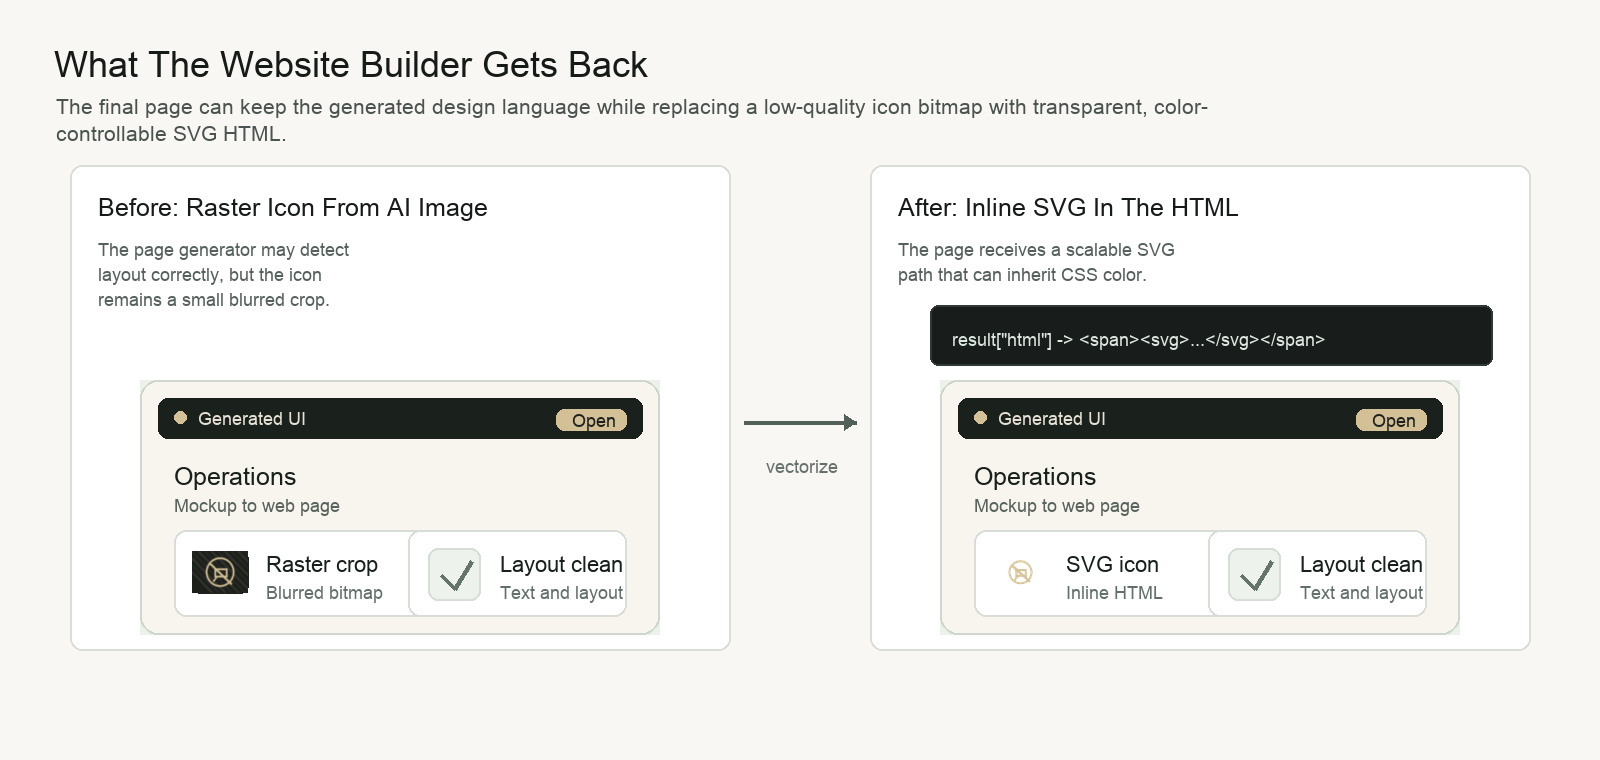
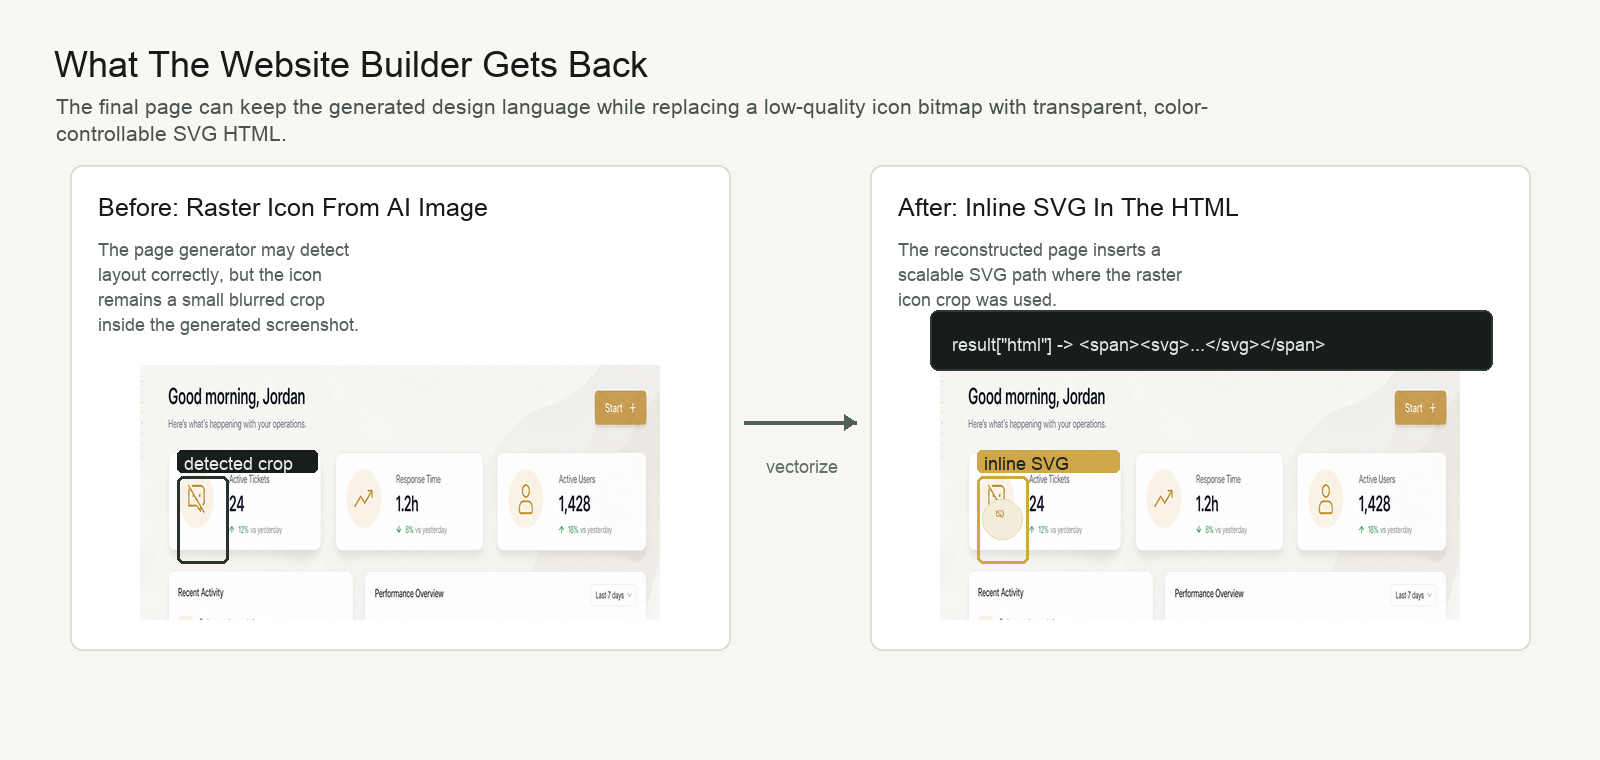
Use generated UI snapshot in workflow diagrams

diff --git a/scripts/generate_readme_diagrams.py b/scripts/generate_readme_diagrams.py
@@ -18,6 +18,11 @@ from auto_icon_vectorizer import vectorize_icon_crop
 EXAMPLES = ROOT / "examples"
 SIZE = 128
 SCALE = 4
+AI_UI_SNAPSHOT = EXAMPLES / "ai-generated-ui-snapshot.png"
+AI_UI_ICON_CROP = EXAMPLES / "ai-generated-ui-icon-crop.png"
+AI_UI_ICON_BOX = (185, 280, 330, 425)
+AI_UI_WIDE_VIEW_BOX = (80, 95, 1550, 520)
+AI_UI_CARD_VIEW_BOX = (130, 210, 630, 455)
 
 
 def main() -> None:
@@ -34,8 +39,11 @@ def main() -> None:
     trace = adapter._load_runtime()
     rendered_rgba = trace.render_svg_transparent(result["svg"], SIZE)
     write_transparent_background_diagram(rendered_rgba)
-    write_ai_website_workflow_diagram(crop, rendered_rgba, result)
-    write_ai_website_integration_diagram(crop, rendered_rgba)
+    ai_snapshot, ai_crop = load_ai_generated_ui_assets()
+    ai_result = vectorize_icon_crop(ai_crop)
+    ai_rendered_rgba = trace.render_svg_transparent(ai_result["svg"], SIZE)
+    write_ai_website_workflow_diagram(ai_snapshot, ai_crop, ai_rendered_rgba, ai_result)
+    write_ai_website_integration_diagram(ai_snapshot, ai_rendered_rgba)
     write_tracing_limitations_diagram(trace)
 
 
@@ -100,6 +108,17 @@ def make_colored_pin_crop() -> Image.Image:
     return image.resize((220, 160), Image.Resampling.LANCZOS)
 
 
+def load_ai_generated_ui_assets() -> tuple[Image.Image, Image.Image]:
+    if not AI_UI_SNAPSHOT.exists():
+        raise FileNotFoundError(
+            f"{AI_UI_SNAPSHOT} is required. It is a checked-in AI-generated UI snapshot used by the README diagrams."
+        )
+    snapshot = Image.open(AI_UI_SNAPSHOT).convert("RGB")
+    crop = snapshot.crop(AI_UI_ICON_BOX)
+    crop.save(AI_UI_ICON_CROP)
+    return snapshot, crop
+
+
 def write_pipeline_diagram(source: Image.Image, mask: Image.Image, rendered: Image.Image, result: dict) -> None:
     width, height = 1680, 760
     image = Image.new("RGB", (width, height), "#f7f8f6")
@@ -152,7 +171,7 @@ def write_pipeline_diagram(source: Image.Image, mask: Image.Image, rendered: Ima
     image.save(EXAMPLES / "pipeline-diagram.png")
 
 
-def write_ai_website_workflow_diagram(crop: Image.Image, icon: Image.Image, result: dict) -> None:
+def write_ai_website_workflow_diagram(snapshot: Image.Image, crop: Image.Image, icon: Image.Image, result: dict) -> None:
     width, height = 1720, 820
     image = Image.new("RGB", (width, height), "#f7f8f6")
     draw = ImageDraw.Draw(image)
@@ -179,12 +198,12 @@ def write_ai_website_workflow_diagram(crop: Image.Image, icon: Image.Image, resu
         x = x_positions[index]
         draw_card(draw, (x, 170, x + 360, 700), title, body, fonts)
         if kind == "mockup":
-            panel = draw_website_mockup((286, 320), crop, icon=None, final=False)
-            image.paste(panel, (x + 37, 330))
+            panel = ai_generated_ui_panel(snapshot, (286, 190), final_icon=None, view_box=AI_UI_CARD_VIEW_BOX)
+            image.paste(panel, (x + 37, 335))
         elif kind == "crop":
-            draw.rounded_rectangle((x + 82, 332, x + 278, 528), radius=10, fill="#121511", outline="#cbd1cb", width=2)
-            image.paste(crop.resize((184, 134), Image.Resampling.LANCZOS), (x + 88, 363))
-            draw.text((x + 92, 560), "detected-card-icon.png", fill="#3d4642", font=fonts["small"])
+            draw.rounded_rectangle((x + 82, 324, x + 278, 520), radius=10, fill="#ffffff", outline="#cbd1cb", width=2)
+            image.paste(crop.resize((184, 184), Image.Resampling.LANCZOS), (x + 88, 330))
+            draw.text((x + 86, 555), "crop from generated UI", fill="#3d4642", font=fonts["small"])
         elif kind == "vector":
             draw.rounded_rectangle((x + 82, 322, x + 278, 518), radius=10, fill="#ffffff", outline="#cbd1cb", width=2)
             checker = checkerboard((184, 184))
@@ -201,8 +220,8 @@ def write_ai_website_workflow_diagram(crop: Image.Image, icon: Image.Image, resu
                 fonts["mono"],
             )
         else:
-            panel = draw_website_mockup((286, 320), crop, icon=icon, final=True)
-            image.paste(panel, (x + 37, 330))
+            panel = ai_generated_ui_panel(snapshot, (286, 190), final_icon=icon, view_box=AI_UI_CARD_VIEW_BOX)
+            image.paste(panel, (x + 37, 335))
         if index < len(cards) - 1:
             draw_arrow(draw, (x + 374, 430), (x + 402, 430))
 
@@ -215,7 +234,7 @@ def write_ai_website_workflow_diagram(crop: Image.Image, icon: Image.Image, resu
     image.save(EXAMPLES / "ai-website-icon-workflow.png")
 
 
-def write_ai_website_integration_diagram(crop: Image.Image, icon: Image.Image) -> None:
+def write_ai_website_integration_diagram(snapshot: Image.Image, icon: Image.Image) -> None:
     width, height = 1600, 760
     image = Image.new("RGB", (width, height), "#f8f7f3")
     draw = ImageDraw.Draw(image)
@@ -231,20 +250,20 @@ def write_ai_website_integration_diagram(crop: Image.Image, icon: Image.Image) -
         27,
     )
 
-    draw_card(draw, (70, 165, 730, 650), "Before: Raster Icon From AI Image", "The page generator may detect layout correctly, but the icon remains a small blurred crop.", fonts)
-    before = draw_website_mockup((520, 255), crop, icon=None, final=False)
-    image.paste(before, (140, 380))
+    draw_card(draw, (70, 165, 730, 650), "Before: Raster Icon From AI Image", "The page generator may detect layout correctly, but the icon remains a small blurred crop inside the generated screenshot.", fonts)
+    before = ai_generated_ui_panel(snapshot, (520, 255), final_icon=None, view_box=AI_UI_WIDE_VIEW_BOX)
+    image.paste(before, (140, 365))
 
-    draw_card(draw, (870, 165, 1530, 650), "After: Inline SVG In The HTML", "The page receives a scalable SVG path that can inherit CSS color.", fonts)
-    after = draw_website_mockup((520, 255), crop, icon=icon, final=True)
-    image.paste(after, (940, 380))
+    draw_card(draw, (870, 165, 1530, 650), "After: Inline SVG In The HTML", "The reconstructed page inserts a scalable SVG path where the raster icon crop was used.", fonts)
+    after = ai_generated_ui_panel(snapshot, (520, 255), final_icon=icon, view_box=AI_UI_WIDE_VIEW_BOX)
+    image.paste(after, (940, 365))
 
     draw_arrow(draw, (744, 422), (856, 422))
     draw.text((766, 456), "vectorize", fill="#66706c", font=fonts["small"])
 
     draw_code_box(
         draw,
-        (930, 305, 1492, 365),
+        (930, 310, 1492, 370),
         [
             'result["html"] -> <span><svg>...</svg></span>',
         ],
@@ -314,6 +333,70 @@ def write_tracing_limitations_diagram(trace) -> None:
         24,
     )
     image.save(EXAMPLES / "tracing-alone-failure-modes.png")
+
+
+def ai_generated_ui_panel(
+    snapshot: Image.Image,
+    size: tuple[int, int],
+    *,
+    final_icon: Image.Image | None,
+    view_box: tuple[int, int, int, int],
+) -> Image.Image:
+    source = snapshot.crop(view_box).convert("RGB")
+    panel = source.resize(size, Image.Resampling.LANCZOS).convert("RGBA")
+    draw = ImageDraw.Draw(panel)
+    mapped = map_box(AI_UI_ICON_BOX, view_box, size)
+    if final_icon is None:
+        draw.rounded_rectangle(mapped, radius=6, outline=(41, 49, 44, 220), width=3)
+        label_w = min(140, size[0] - mapped[0] - 8)
+        label_box = (mapped[0], max(4, mapped[1] - 26), mapped[0] + label_w, max(28, mapped[1] - 4))
+        draw.rounded_rectangle(label_box, radius=5, fill=(24, 30, 27, 215))
+        draw.text((label_box[0] + 7, label_box[1] + 3), "detected crop", fill=(235, 238, 232, 255), font=load_fonts()["small"])
+    else:
+        clear_icon_region(panel, mapped)
+        paste_vector_icon(panel, final_icon, mapped)
+        draw.rounded_rectangle(mapped, radius=6, outline=(207, 166, 72, 235), width=3)
+        label_w = min(142, size[0] - mapped[0] - 8)
+        label_box = (mapped[0], max(4, mapped[1] - 26), mapped[0] + label_w, max(28, mapped[1] - 4))
+        draw.rounded_rectangle(label_box, radius=5, fill=(207, 166, 72, 230))
+        draw.text((label_box[0] + 7, label_box[1] + 3), "inline SVG", fill=(31, 33, 28, 255), font=load_fonts()["small"])
+    return panel.convert("RGB")
+
+
+def map_box(box: tuple[int, int, int, int], view_box: tuple[int, int, int, int], size: tuple[int, int]) -> tuple[int, int, int, int]:
+    x0, y0, x1, y1 = box
+    vx0, vy0, vx1, vy1 = view_box
+    sx = size[0] / max(1, vx1 - vx0)
+    sy = size[1] / max(1, vy1 - vy0)
+    return (
+        round((x0 - vx0) * sx),
+        round((y0 - vy0) * sy),
+        round((x1 - vx0) * sx),
+        round((y1 - vy0) * sy),
+    )
+
+
+def clear_icon_region(panel: Image.Image, box: tuple[int, int, int, int]) -> None:
+    draw = ImageDraw.Draw(panel)
+    x0, y0, x1, y1 = box
+    cx = (x0 + x1) // 2
+    cy = (y0 + y1) // 2
+    radius = max(18, min(x1 - x0, y1 - y0) // 2 - 5)
+    draw.ellipse(
+        (cx - radius, cy - radius, cx + radius, cy + radius),
+        fill=(245, 237, 220, 255),
+        outline=(231, 217, 188, 255),
+        width=1,
+    )
+
+
+def paste_vector_icon(panel: Image.Image, icon: Image.Image, box: tuple[int, int, int, int]) -> None:
+    x0, y0, x1, y1 = box
+    side = max(18, min(x1 - x0, y1 - y0) - 28)
+    placed = icon.resize((side, side), Image.Resampling.LANCZOS)
+    px = (x0 + x1 - side) // 2
+    py = (y0 + y1 - side) // 2
+    panel.alpha_composite(placed, (px, py))
 
 
 def trace_blurry_crop_auto(trace, crop: Image.Image) -> Image.Image:
@@ -464,51 +547,6 @@ def write_transparent_background_diagram(icon: Image.Image) -> None:
         font=fonts["small"],
     )
     image.save(EXAMPLES / "transparent-backgrounds.png")
-
-
-def draw_website_mockup(size: tuple[int, int], crop: Image.Image, icon: Image.Image | None, final: bool) -> Image.Image:
-    width, height = size
-    image = Image.new("RGB", size, "#ecf1eb")
-    draw = ImageDraw.Draw(image)
-    fonts = load_fonts()
-    compact = width < 380
-    draw.rounded_rectangle((0, 0, width - 1, height - 1), radius=18, fill="#f7f5ee", outline="#cfd6ce", width=2)
-    nav_h = 42 if compact else 40
-    draw.rounded_rectangle((18, 18, width - 18, 18 + nav_h), radius=10, fill="#1a211c")
-    draw.ellipse((34, 31, 46, 43), fill="#d3c096")
-    draw.text((58, 28), "Generated UI", fill="#e7e2d5", font=fonts["small"])
-    draw.rounded_rectangle((width - 104, 29, width - 34, 50), radius=8, fill="#d3c096")
-    draw.text((width - 88, 30), "Open", fill="#1b211d", font=fonts["small"])
-
-    draw.text((34, 82), "Operations", fill="#18201b", font=fonts["heading"])
-    draw.text((34, 115), "Mockup to web page", fill="#58635d", font=fonts["small"])
-    card_y = 150
-    card_specs = [(34, width - 68, "SVG icon" if final else "Raster crop")]
-    if not compact:
-        card_specs.append((width // 2 + 8, width // 2 - 42, "Layout clean"))
-
-    for index, (x, card_w, label) in enumerate(card_specs):
-        card_h = 84 if compact else 86
-        draw.rounded_rectangle((x, card_y, x + card_w, card_y + card_h), radius=12, fill="#ffffff", outline="#d8ddd7", width=2)
-        if index == 0:
-            if icon is None:
-                icon_crop = crop.resize((56, 42), Image.Resampling.LANCZOS).filter(ImageFilter.GaussianBlur(0.6))
-                draw.rounded_rectangle((x + 18, card_y + 21, x + 74, card_y + 63), radius=8, fill="#1d221d")
-                image.paste(icon_crop, (x + 18, card_y + 21))
-            else:
-                icon_box = Image.new("RGBA", (56, 56), (0, 0, 0, 0))
-                placed = icon.resize((46, 46), Image.Resampling.LANCZOS)
-                icon_box.alpha_composite(placed, (5, 5))
-                image.paste(icon_box.convert("RGB"), (x + 18, card_y + 14), icon_box)
-            sublabel = "Inline HTML" if final else "Blurred bitmap"
-        else:
-            draw.rounded_rectangle((x + 20, card_y + 18, x + 72, card_y + 70), radius=10, fill="#eef2ed", outline="#d7ded7", width=2)
-            draw.line([(x + 33, card_y + 45), (x + 47, card_y + 59), (x + 64, card_y + 31)], fill="#64746b", width=4)
-            sublabel = "Text and layout"
-        text_x = x + 92
-        draw.text((text_x, card_y + 22), label, fill="#17201b", font=fonts["body_bold"])
-        draw.text((text_x, card_y + 52), sublabel, fill="#63706a", font=fonts["small"])
-    return image
 
 
 def checkerboard(size: tuple[int, int]) -> Image.Image:

diff --git a/examples/README.md b/examples/README.md
@@ -45,6 +45,34 @@ HTML:
 README diagram showing that the generated SVG has a transparent background and
 can be applied to light, dark, patterned, or gradient surfaces.
 
+## `ai-generated-ui-snapshot.png`
+
+AI-generated dashboard snapshot used by the README workflow diagrams. This is a
+checked-in source image, not a hand-drawn placeholder.
+
+## `ai-generated-ui-icon-crop.png`
+
+The card icon crop extracted from `ai-generated-ui-snapshot.png` by
+`scripts/generate_readme_diagrams.py`. The workflow diagrams pass this crop
+through the vectorizer and insert the resulting SVG back into the final-page
+example.
+
+## `ai-website-icon-workflow.png`
+
+README diagram showing:
+
+```text
+AI-generated UI snapshot -> detected icon crop -> vectorizer output -> final HTML page
+```
+
+The UI snapshot and crop are generated-image assets, while the SVG output is
+produced by the local vectorizer.
+
+## `ai-website-html-integration.png`
+
+README diagram showing the before/after integration: a raster icon inside the
+generated UI snapshot becomes inline SVG in the reconstructed HTML page.
+
 ## `tracing-alone-failure-modes.png`
 
 README diagram showing why direct tracing is not enough for blurry

diff --git a/README.md b/README.md
@@ -34,6 +34,10 @@ One concrete workflow looks like this:
 4. The returned SVG or inline SVG HTML is inserted back into the final generated
    website.
 
+The diagram below uses a generated dashboard snapshot checked into this repo at
+`examples/ai-generated-ui-snapshot.png`, then crops the small card icon from
+that snapshot.
+
 ![AI website icon workflow](examples/ai-website-icon-workflow.png)
 
 The important point is that this package does not need to understand the whole